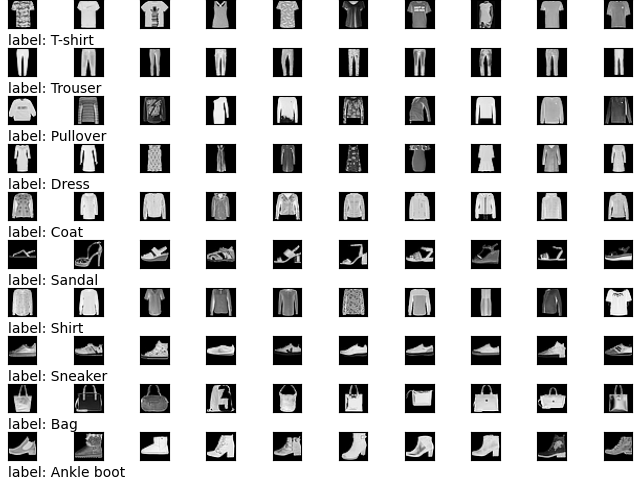
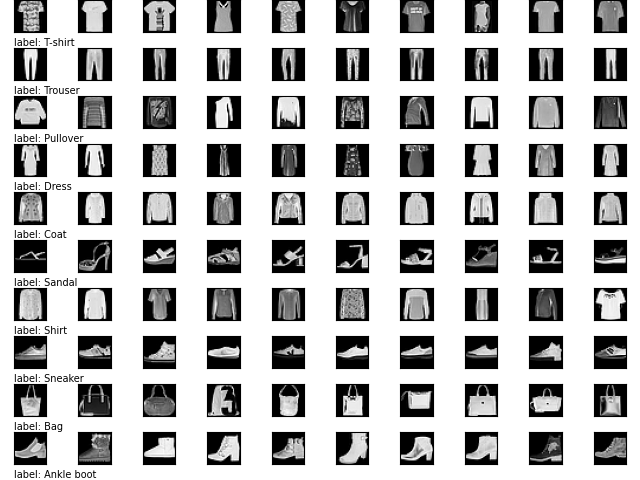
fixed data plotting code

diff --git a/readData.py b/readData.py
@@ -1,13 +1,14 @@
 import zipfile
 import numpy as np
 import torch
+from plots import plotData
 
 
 # load data and labels from zipfile, and store in numpy arrays
-def load_data(path):
+def load_data(path, plot=False):
     with zipfile.ZipFile('data.zip') as data:
         data_file = data.open(path)
-    data = []
+    images = []
     labels = []
     for idx, line in enumerate(data_file):
         if idx == 0:
@@ -16,13 +17,15 @@ def load_data(path):
         image = line.split(',')
         labels.append(int(image[0][2:]))
         image = list(map(int, image[1:]))
-        data.append(image)
-    return np.array(data).reshape(len(data), 1, 28, 28), np.array(labels)
+        images.append(image)
+    if plot:
+        plotData(images, labels)
+    return np.array(images).reshape(len(images), 1, 28, 28), np.array(labels)
 
 
 # load data, change data to floats and get data to gpu (if cuda available)
-def get_data(path):
-    data, labels = load_data(path)
+def get_data(path, plot=False):
+    data, labels = load_data(path, plot)
     data = torch.from_numpy(data)
     labels = torch.from_numpy(labels)
     data = data.float()

diff --git a/plots.py b/plots.py
@@ -60,7 +60,7 @@ def plotData(images, labels):
             ax[i, j].axes.yaxis.set_visible(False)
             if j == 0:
                 ax[i, j].axes.xaxis.set_ticks([])
-                ax[i, j].set_xlabel('label: ' + labels_string[i], loc='left')
+                ax[i, j].set_xlabel('label: ' + labels_string[i], loc='left', fontsize=7)
             else:
                 ax[i, j].axes.xaxis.set_visible(False)
     plt.tight_layout(pad=0)
